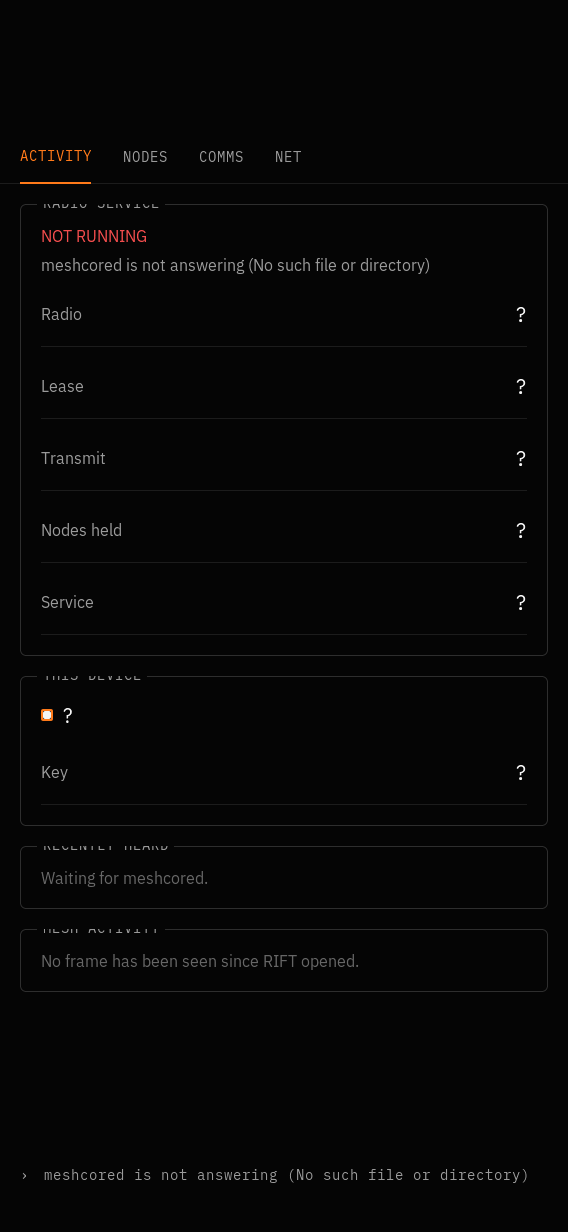
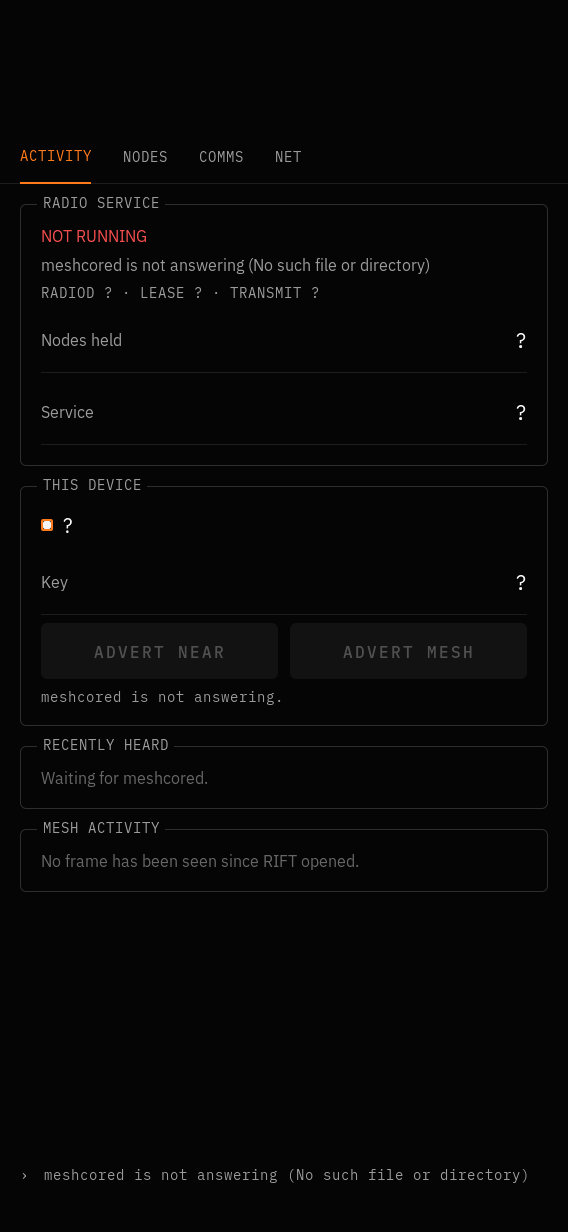
docs: RIFT screenshots for the new actions, channels and layout
Regenerated by tests/rift_shell_test.sh (SHOTS_DIR) from the same fixtures
the app test checks: the detail with its actions first, the FORGET
confirmation, both channel screens, the landscape channel pane, and every
panel caption drawn whole. Four are new; the README lists all sixteen.
Nothing was taken from hardware and nothing that produced them transmitted.

diff --git a/docs/apps/rift/README.md b/docs/apps/rift/README.md
@@ -17,16 +17,20 @@ tokens — RIFT names no colour of its own (`tests/style_lint.sh`).
 
 | File | Source | |
 | --- | --- | --- |
-| `portrait-no-service.png` | `rift_app_test` | ACTIVITY with no meshcored at all, which is what a unit that has not enabled the service shows. meshcored ships disabled |
-| `portrait-activity.png` | `rift_app_test` | ACTIVITY: the service state and why, this device, the nodes heard most recently, the raw feed |
-| `portrait-nodes.png` | `rift_app_test` | NODES: 36 px rows, the three groups, the hop strip, `DIR`, and `?` where nothing was measured |
-| `portrait-nodes-selected.png` | `rift_app_test` | a row selected — expanded in place into the state line, the path written out, the signal and a 56 px action bar |
-| `portrait-node-detail.png` | `rift_app_test` | the pushed DETAIL screen: link state, identity, the hop ladder |
-| `portrait-comms-list.png` | `rift_app_test` | COMMS: the conversations, their previews and their routes, over a note saying the list is direct-only because the service has no channels |
-| `portrait-comms-thread.png` | `rift_app_test` | a conversation open: the messages with their state captions, and the 56 px field and SEND the touch keyboard comes up for |
-| `landscape-nodes.png` | `rift_app_test` | the landscape split: the list beside the selected node's detail |
-| `landscape-activity.png` | `rift_app_test` | ACTIVITY in two columns |
-| `landscape-comms.png` | `rift_app_test` | COMMS in three panes — list, thread, route — with the command line as the composer |
+| `portrait-no-service.png` | `rift_app_test` | ACTIVITY with no meshcored at all, which is what a unit that has not enabled the service shows (meshcored ships disabled); the command line appears only to say so |
+| `portrait-activity.png` | `rift_app_test` | ACTIVITY: the service state and why, radiod and the lease on one line, the service's traffic count, this device with the two ADVERT buttons, the nodes heard most recently, the raw feed |
+| `portrait-nodes.png` | `rift_app_test` | NODES: 36 px rows, the three groups, the hop strip, `DIR`, and `?` where nothing was measured; no footer and no command line when neither has anything to say |
+| `portrait-nodes-selected.png` | `rift_app_test` | a row selected — expanded in place into the state line, the path written out, the signal and a 56 px action bar: MESSAGE, DETAIL |
+| `portrait-node-detail.png` | `rift_app_test` | the pushed DETAIL screen, actions first — ‹ NODES, MESSAGE, RE-ROUTE, FORGET — then link state, the hop ladder, identity |
+| `portrait-forget-confirm.png` | `rift_app_test` | FORGET asking first: the DS §17.5 confirmation in place of the action bar, Cancel first and accented |
+| `portrait-comms-list.png` | `rift_app_test` | COMMS: the conversations, their previews and their routes |
+| `portrait-comms-thread.png` | `rift_app_test` | a conversation open: each message a body and one caption line — age, state, evidence — and the field with a SEND as wide as its word |
+| `portrait-comms-channels.png` | `rift_app_test` | two joined channels as rows beside the conversations, `#` glyph and `FLOOD` |
+| `portrait-comms-channel-thread.png` | `rift_app_test` | a channel thread: the body without the sender's prefix, the claimed sender marked `?`, and `NO ACK ON CHANNELS` under ours |
+| `landscape-nodes.png` | `rift_app_test` | the landscape split: the list beside the selected node's detail, whose actions are under its title; the key hints in the strip |
+| `landscape-activity.png` | `rift_app_test` | ACTIVITY in two columns, THIS DEVICE and its ADVERT buttons at the head of the right one |
+| `landscape-comms.png` | `rift_app_test` | COMMS in three panes — list, thread, route — with the command line as the composer and the newest message above it |
+| `landscape-comms-channel.png` | `rift_app_test` | the same for a channel: no route to draw, and a tally that counts what was sent and claims no delivery |
 | `shell-portrait.png` | the real shell | the whole stack: Doors status bar, app header, RIFT, and a scripted meshcored on the other end of a real socket |
 | `shell-landscape.png` | the real shell | the same, turned |
 
@@ -43,5 +47,6 @@ these screens is measured on the monotonic clock both ends of the socket
 share.
 
 Nothing in these was taken from hardware. Nothing that produced them
-transmitted: the fixtures are read, and the one screen with a composer has an
-empty one.
+transmitted: the fixtures are read, the screens with a composer have an empty
+one, and the ADVERT and FORGET presses the test makes before these are taken
+go to a client with no service behind it, which refuses them and says so.
